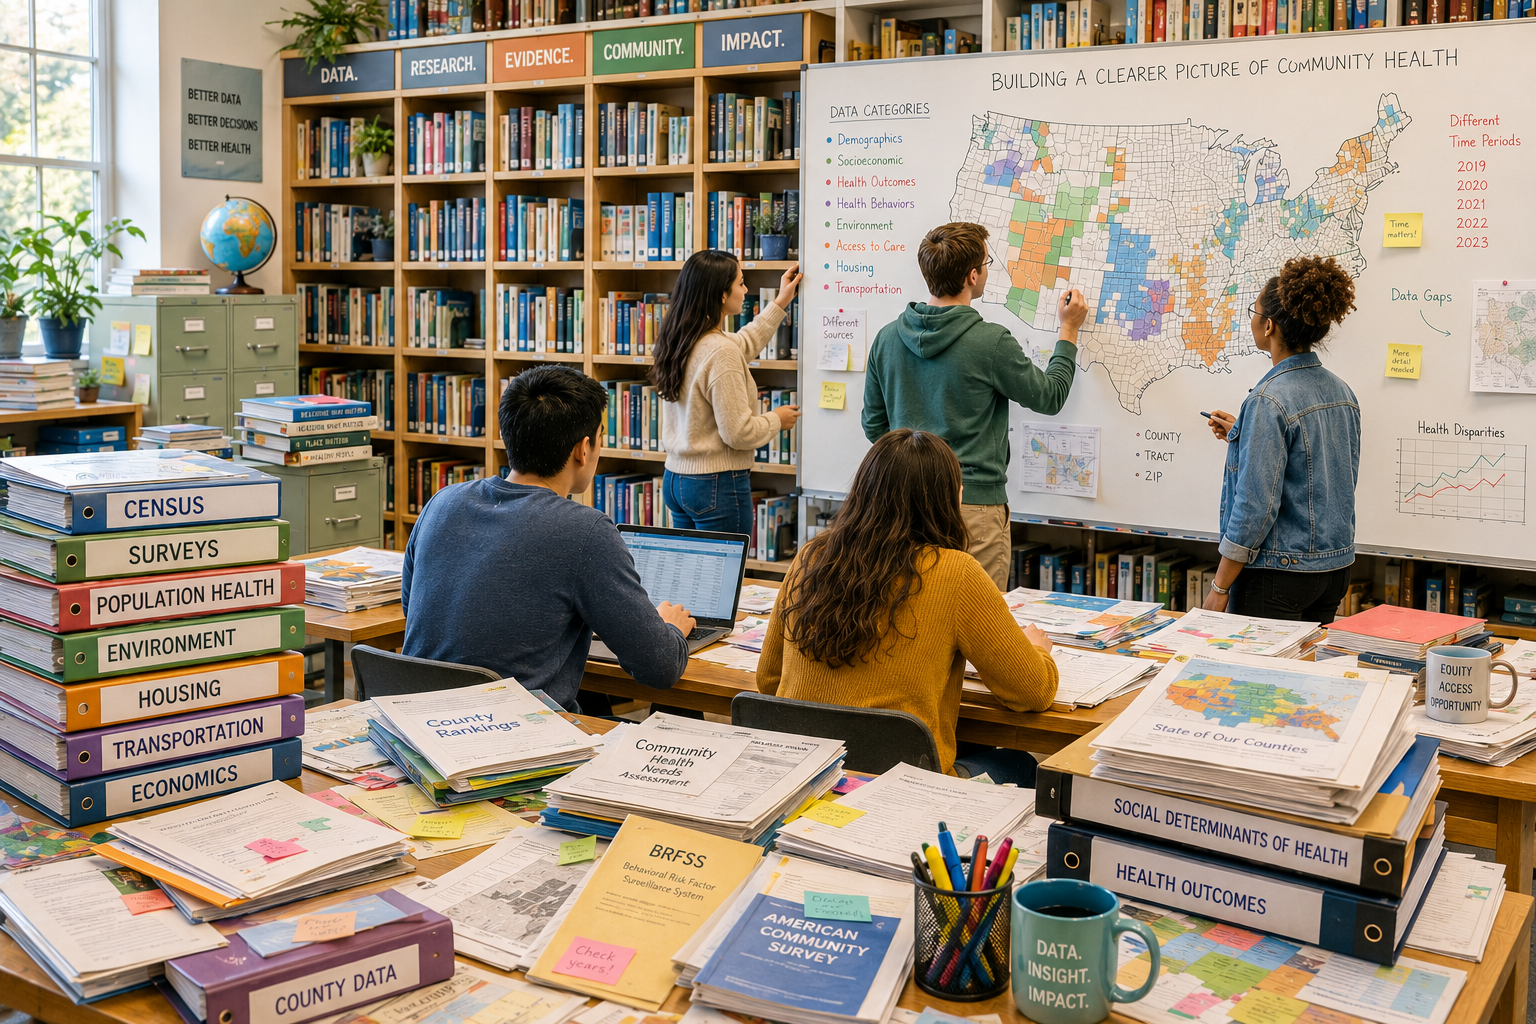
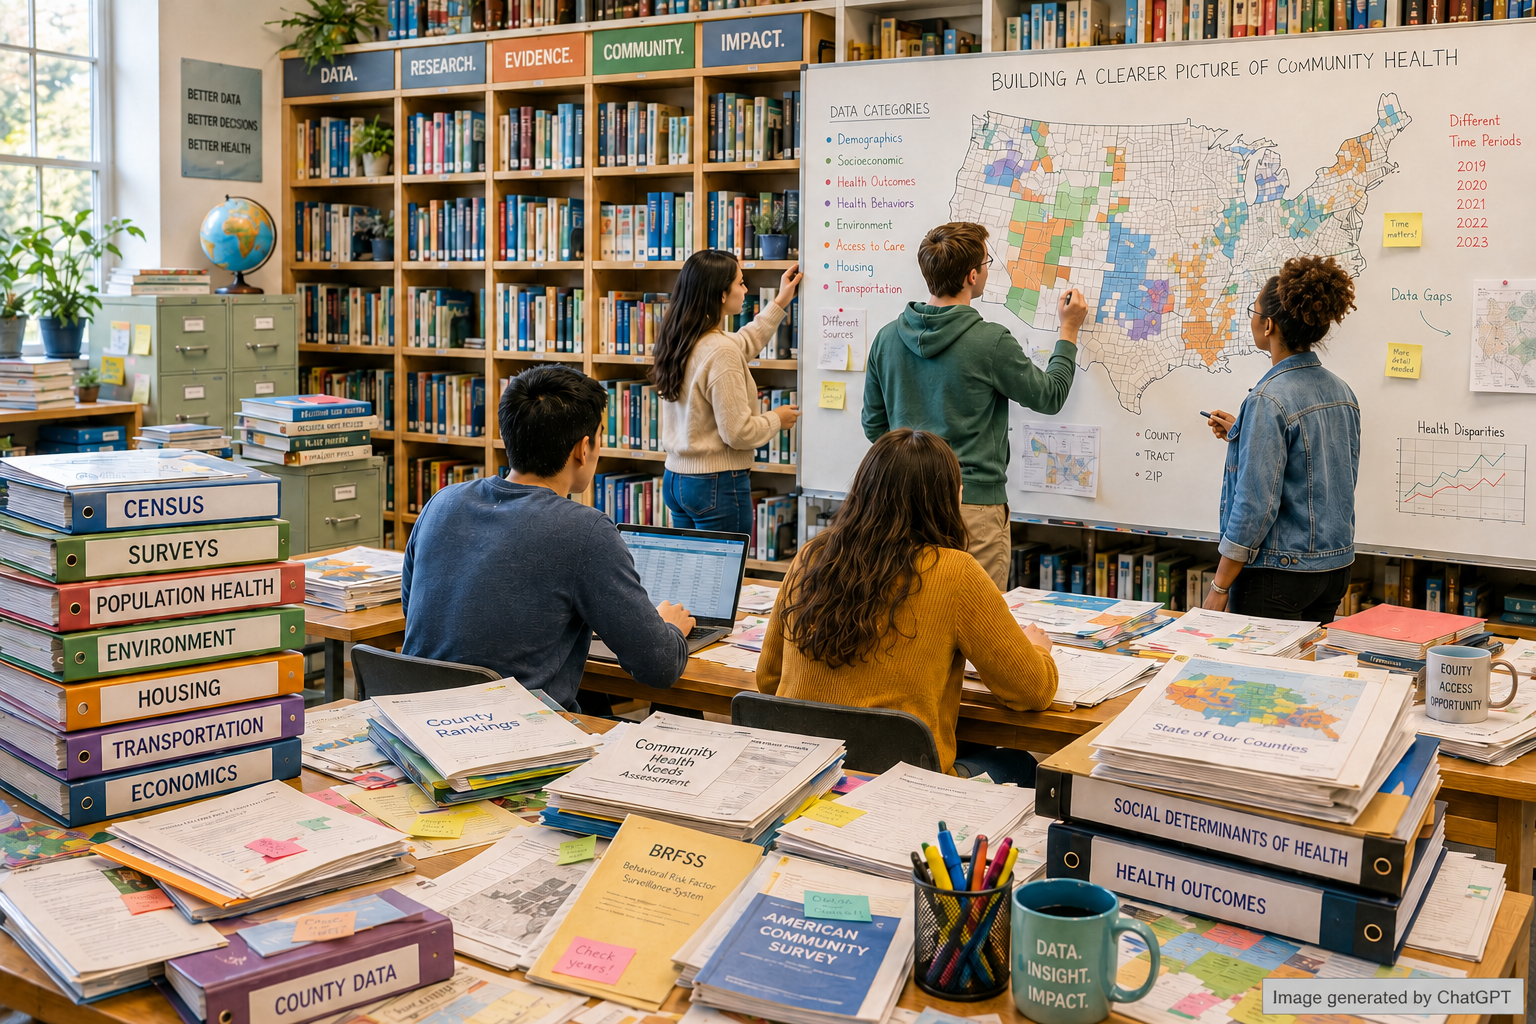
Rewrite the AI Assistants article into a finished walkthrough with demo figures.
Add .cursorignore so env files and key material stay out of the agent context.

diff --git a/documentation/AI Assistants article html.md b/documentation/AI Assistants article html.md
@@ -2,10 +2,6 @@
 
 ![map development.png](image\map development.png)
 
-        <p style="text-align:center;font-size:15px">
-           <img src="http://socialhealthai.org/wp-content/uploads/2026/06/map-development.png" alt="Map development" width="480" height="320">
-        Map development</p>
-
 If your project involves public data, you have probably spent more time data wrangling than performing analysis or building models. This is especially true when data is derived from multiple public sources or must be integrated with your own datasets. There is no single standard for public SDoH data, and datasets often differ in definitions, geographic levels, identifiers, and reporting periods. As a result, analysts spend significant time determining whether datasets can be combined before statistical analysis or machine learning can begin.
 
 This article shows how an AI assistant can reduce much of the exploratory work involved in discovering and modeling of public SDoH data. An open-source AI assistant will be highlighted that integrates several of the most widely used public data sources. The assistant can help find relevant variables, understand geographic and temporal coverage, and compare related measures across sources before building statistical, machine learning, or AI pipelines.
@@ -57,11 +53,6 @@ Conversational AI agents that orchestrate data tools are well suited to data int
 
 ![analytic assistant art.png](image\analytic assistant art.png)
 
-        <p style="text-align:center;font-size:15px">
-           <img src="http://socialhealthai.org/wp-content/uploads/2026/06/analytic-assistant-art.png" alt="Analytic assistant" width="400" height="300">
-        Original artwork by author, modified using Gemini &amp; ChatGPT</p>
-							Original artwork by author, modified using Gemini & ChatGPT_
-
 For example, you might ask: _“For Ohio counties in 2023, find measures of social isolation and unemployment, check that both are available at the county level, and calculate their Pearson correlation.”_ An assistant can search several sources for metrics, note the original source and description of the metrics, fetch values by county FIPS code, drop rows with missing data, compute the correlation, and return a table plus a scatter plot.
 
 The open-source project: [SDoH Public Data Assistant](https://github.com/SocialHealthAI/SDoH-Public-Data-Assistant) is a chat application that helps you explore and analyze public data repositories relevant to SDoH.  You ask questions in natural language; a reasoning agent interprets them, discovers indicators across connected sources and fetches observations for places and time periods.  It can run statistical analyses, including correlation, regression, and simple forecasts.  It can also produce charts and maps from the results.  The assistant connects to **Google Data Commons**, **Centers for Medicare & Medicaid Services (CMS) datasets**, and **CDC PLACES**. 
@@ -96,10 +87,6 @@ We use the assistant chat page to ask "_Are there indicators for people below po
 
 ![assistant-screen-1-article.png](image\assistant-screen-1-article.png)
 
-        <p style="text-align:center;font-size:15px">
-           <img src="http://socialhealthai.org/wp-content/uploads/2026/06/assistant-screen-1-article.png" alt="Assistant chat: indicator discovery" width="500" height="286">
-        Assistant chat: indicator discovery</p>
-
 The assistant searches the sources and uses source metadata to respond with a number of candidate indicators (not shown in the image above). Note that tools are provided to view the logic steps used to complete the request, and to audit the response using a separate LLM.  The indicators that look like the best candidates are:
 
 | Metric | Source | Repository | Metric Source | Indicator ID |
@@ -125,10 +112,6 @@ Show a map of counties in Indiana for cdcplaces:county/DIABETES/AgeAdjPrv in the
 This query provides a choropleth map with a legend.  Data Commons is used to find the polygon shapes to represent counties.
 
 ![assistant-map-1-article.png](image\assistant-map-1-article.png)
-
-        <p style="text-align:center;font-size:15px">
-           <img src="http://socialhealthai.org/wp-content/uploads/2026/06/assistant-map-1-article.png" alt="Indiana county diabetes prevalence map" width="350" height="345">
-        Indiana county diabetes prevalence map (2023)</p>
 
 #### Step 4: Reconcile the Indicators
 
@@ -156,10 +139,6 @@ The assistant queries the sources, joins the data on common counties and produce
 
 ![assistant-plot-1-article.png](image\assistant-plot-1-article.png)
 
-        <p style="text-align:center;font-size:15px">
-           <img src="http://socialhealthai.org/wp-content/uploads/2026/06/assistant-plot-1-article.png" alt="Poverty and diabetes correlation scatter plot" width="500" height="290">
-        Poverty and diabetes correlation scatter plot (Indiana counties, 2023)</p>
-
 Using the question above we could ask for the Pearson Correlation Coefficient.  The assistant responds with:
 
 1. Pearson correlation result (requested)
@@ -168,6 +147,19 @@ Using the question above we could ask for the Pearson Correlation Coefficient.  
 
 2. Interpretation
 This is a **strong positive** cross-county association in Indiana for 2023: counties with a **higher share of people below the poverty level** tend to have **higher age-adjusted diagnosed diabetes prevalence among adults** (CDC PLACES).
+
+### Usage Considerations
+
+AI analytic assistants are a new class of tools and should be used with the same care as any analytic software.
+
+The assistant uses a large language model (LLM) to orchestrate queries, statistical functions, and visualization tools. Like any LLM, it can misunderstand a request or select the wrong indicator if a prompt is ambiguous. To reduce this risk, the assistant is restricted to the configured data repositories and cannot search the Internet. It is also instructed to generate results only from sources rather than fabricate values.
+
+Many repositories contain indicators with similar names and descriptions. When possible, refer to indicators by their **indicator IDs** rather than by name. If you use names or descriptions, ask the assistant to state the source, indicator name, and indicator ID so you can verify that the correct indicator was selected.
+
+Each prompt should be self-contained. The assistant does not rely on information from previous prompts, so include the required place, time period, indicators, and analysis request in every query.
+
+When you are uncertain about a result, use the **Run Audit** button. The Audit LLM independently reviews the response, including the reasoning steps, selected indicators, and supporting evidence from the data sources.
+
 
 ### Conclusion
 Analysis of public SDoH data remains challenging because sources differ in definitions, geographic levels, identifiers, and reporting periods. Public repositories provide more integration, but projects still require joining repository data with measures from other sources and verifying geographic and temporal coverage in live samples. The Indiana example in this article is typical: finding suitable indicators and turning a research question into a joined table, a map, and a correlation required checking availability by county and year, reconciling a count with a rate, and interpreting populations that do not align perfectly.
